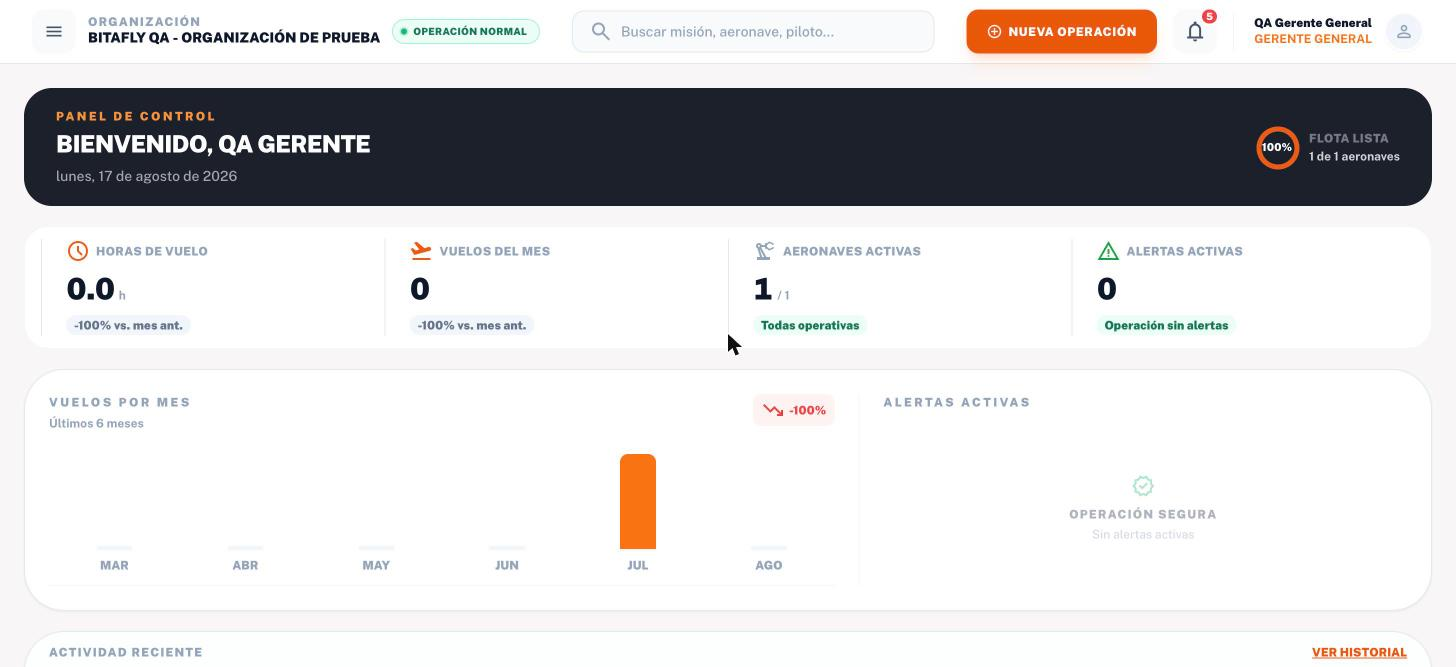
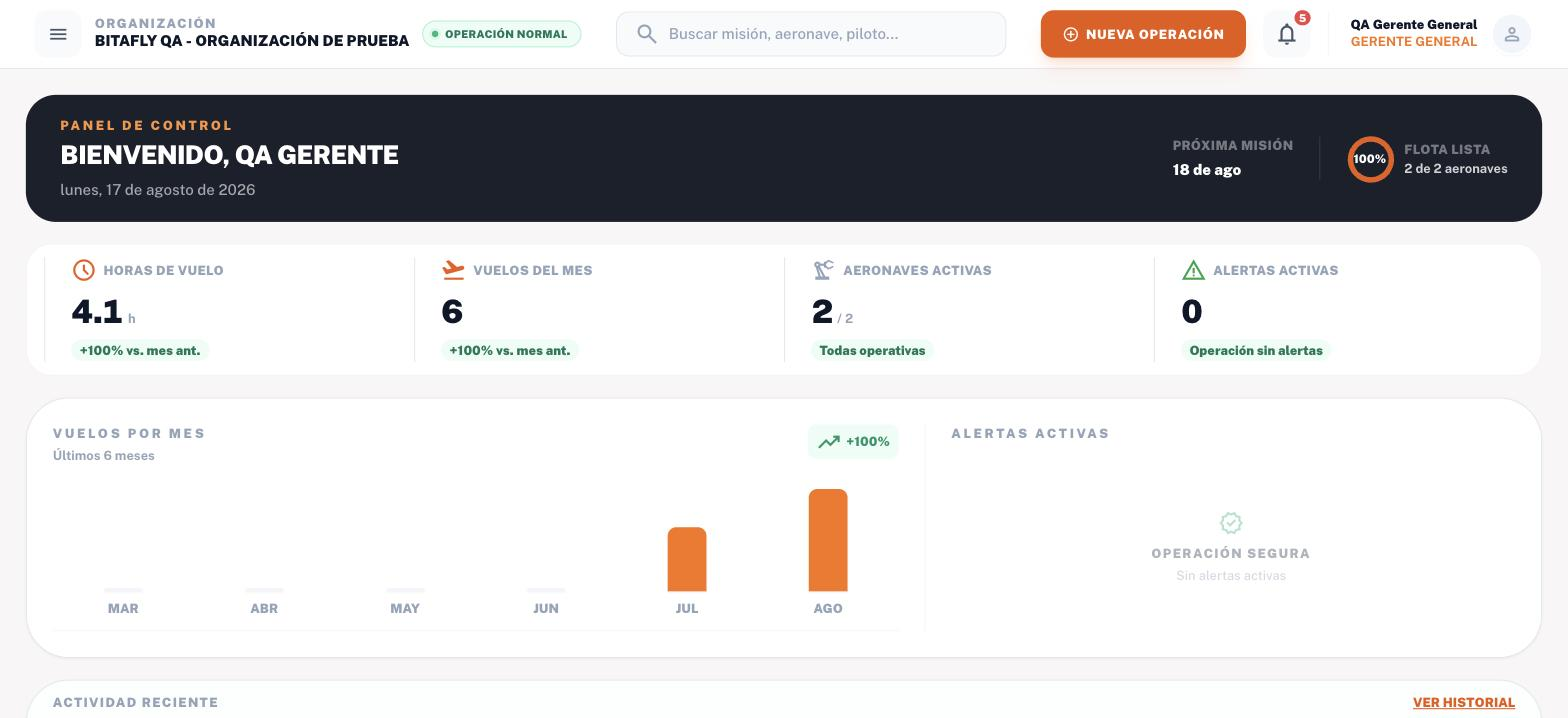
Fase 0: enriquecer fixture QA y recapturar screenshots más ricos
Agrega 2ª aeronave, 6 vuelos de agosto y 3 misiones programadas a la
organización QA de prueba (datos de fixture, sin PII real) para que
Dashboard, Flota, Bitácora y Programación se vean como una operación
real en marcha en vez de datos vacíos — recapturadas las 4 páginas.

Claude-Session: https://claude.ai/code/session_0126L2Feu9JfFE6NNt72MYEL

diff --git a/docs/plan-mejora-visual-landing-bitafly.md b/docs/plan-mejora-visual-landing-bitafly.md
@@ -87,16 +87,15 @@ subida del replay, no el mapa animado — la QA org no tiene un log `.txt` DJI r
 para generar la vista con mapa/telemetría; se necesitaría subir uno real para esa captura
 específica).
 
-**Limitación real encontrada, a tener en cuenta en las Fases 2-6**: la organización QA
-tiene datos de fixture reales pero **escasos** para fines de marketing — 1 sola aeronave,
-0 vuelos del mes actual, 0.0 horas, calendario de Programación vacío en la semana actual.
-Las capturas de **Meteorología** y **Reportes** salieron visualmente ricas (datos en vivo,
-grid de formatos) y son las mejores candidatas para el Hero/Features. Las de **Dashboard
-principal** y **Programación** se ven correctas pero "vacías" — antes de usarlas en el
-Hero conviene decidir: (a) usarlas tal cual (auténtico pero poco vistoso), (b) agregar más
-datos de fixture a la QA org (más vuelos recientes, 2-3 aeronaves) solo para mejorar estas
-capturas puntuales, o (c) usar Meteorología/Reportes/Bitácora como las piezas principales
-del Hero y evitar Dashboard/Programación hasta enriquecer los datos.
+**Limitación real encontrada, ya resuelta**: la primera pasada de capturas mostró la QA org
+con datos escasos (1 aeronave, 0 vuelos del mes, calendario vacío). Se enriqueció la
+organización QA con una 2ª aeronave (Mavic 3 Enterprise), 6 vuelos reales repartidos en
+agosto 2026 y 3 misiones programadas en la semana en curso — y se recapturaron Dashboard,
+Flota, Bitácora y Programación con ese contenido. Las 9 capturas finales en
+`public/screenshots/` ya reflejan un flujo de operación creíble (2 aeronaves, 9 vuelos,
+5.2h, 6 vuelos este mes, calendario con 3 misiones). Pendiente real: `replay-gps-upload.jpg`
+sigue siendo el modal de subida (no el mapa animado) — falta un log `.txt` real de DJI para
+generar esa vista; se retoma si el usuario aporta uno.
 
 ## Fase 1 — Sistema de diseño: menos repetición, más variación intencional
 
